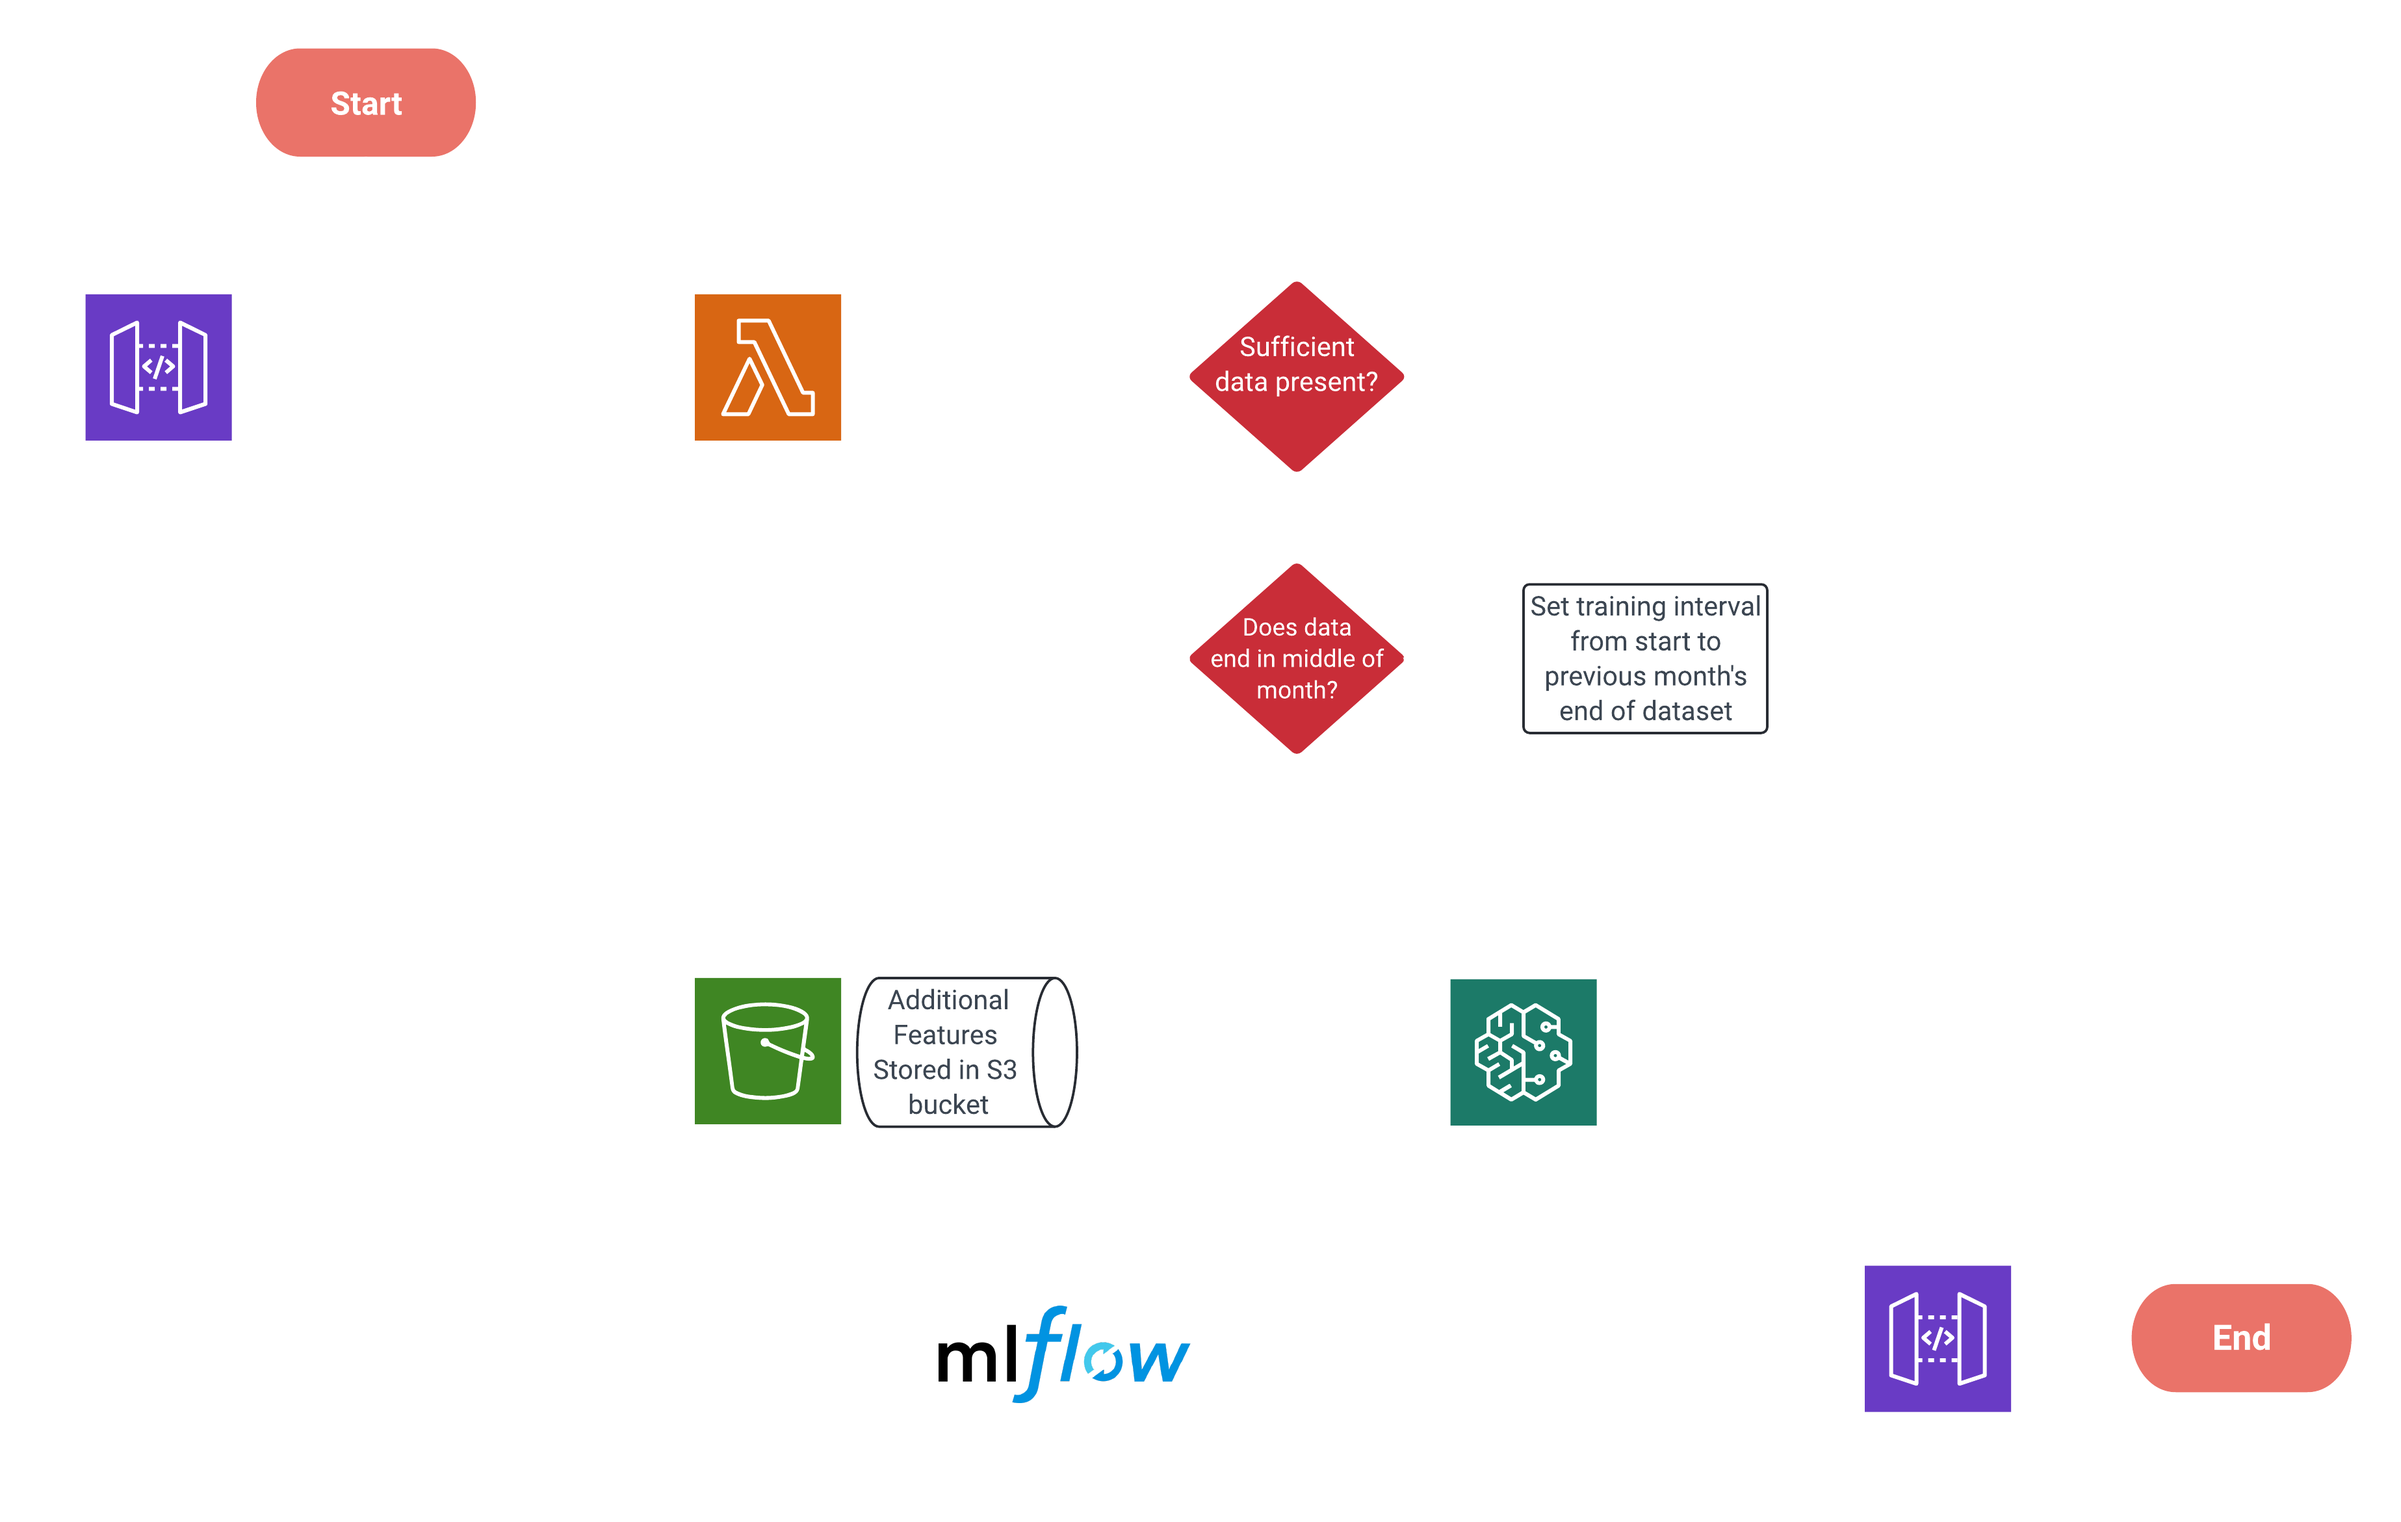
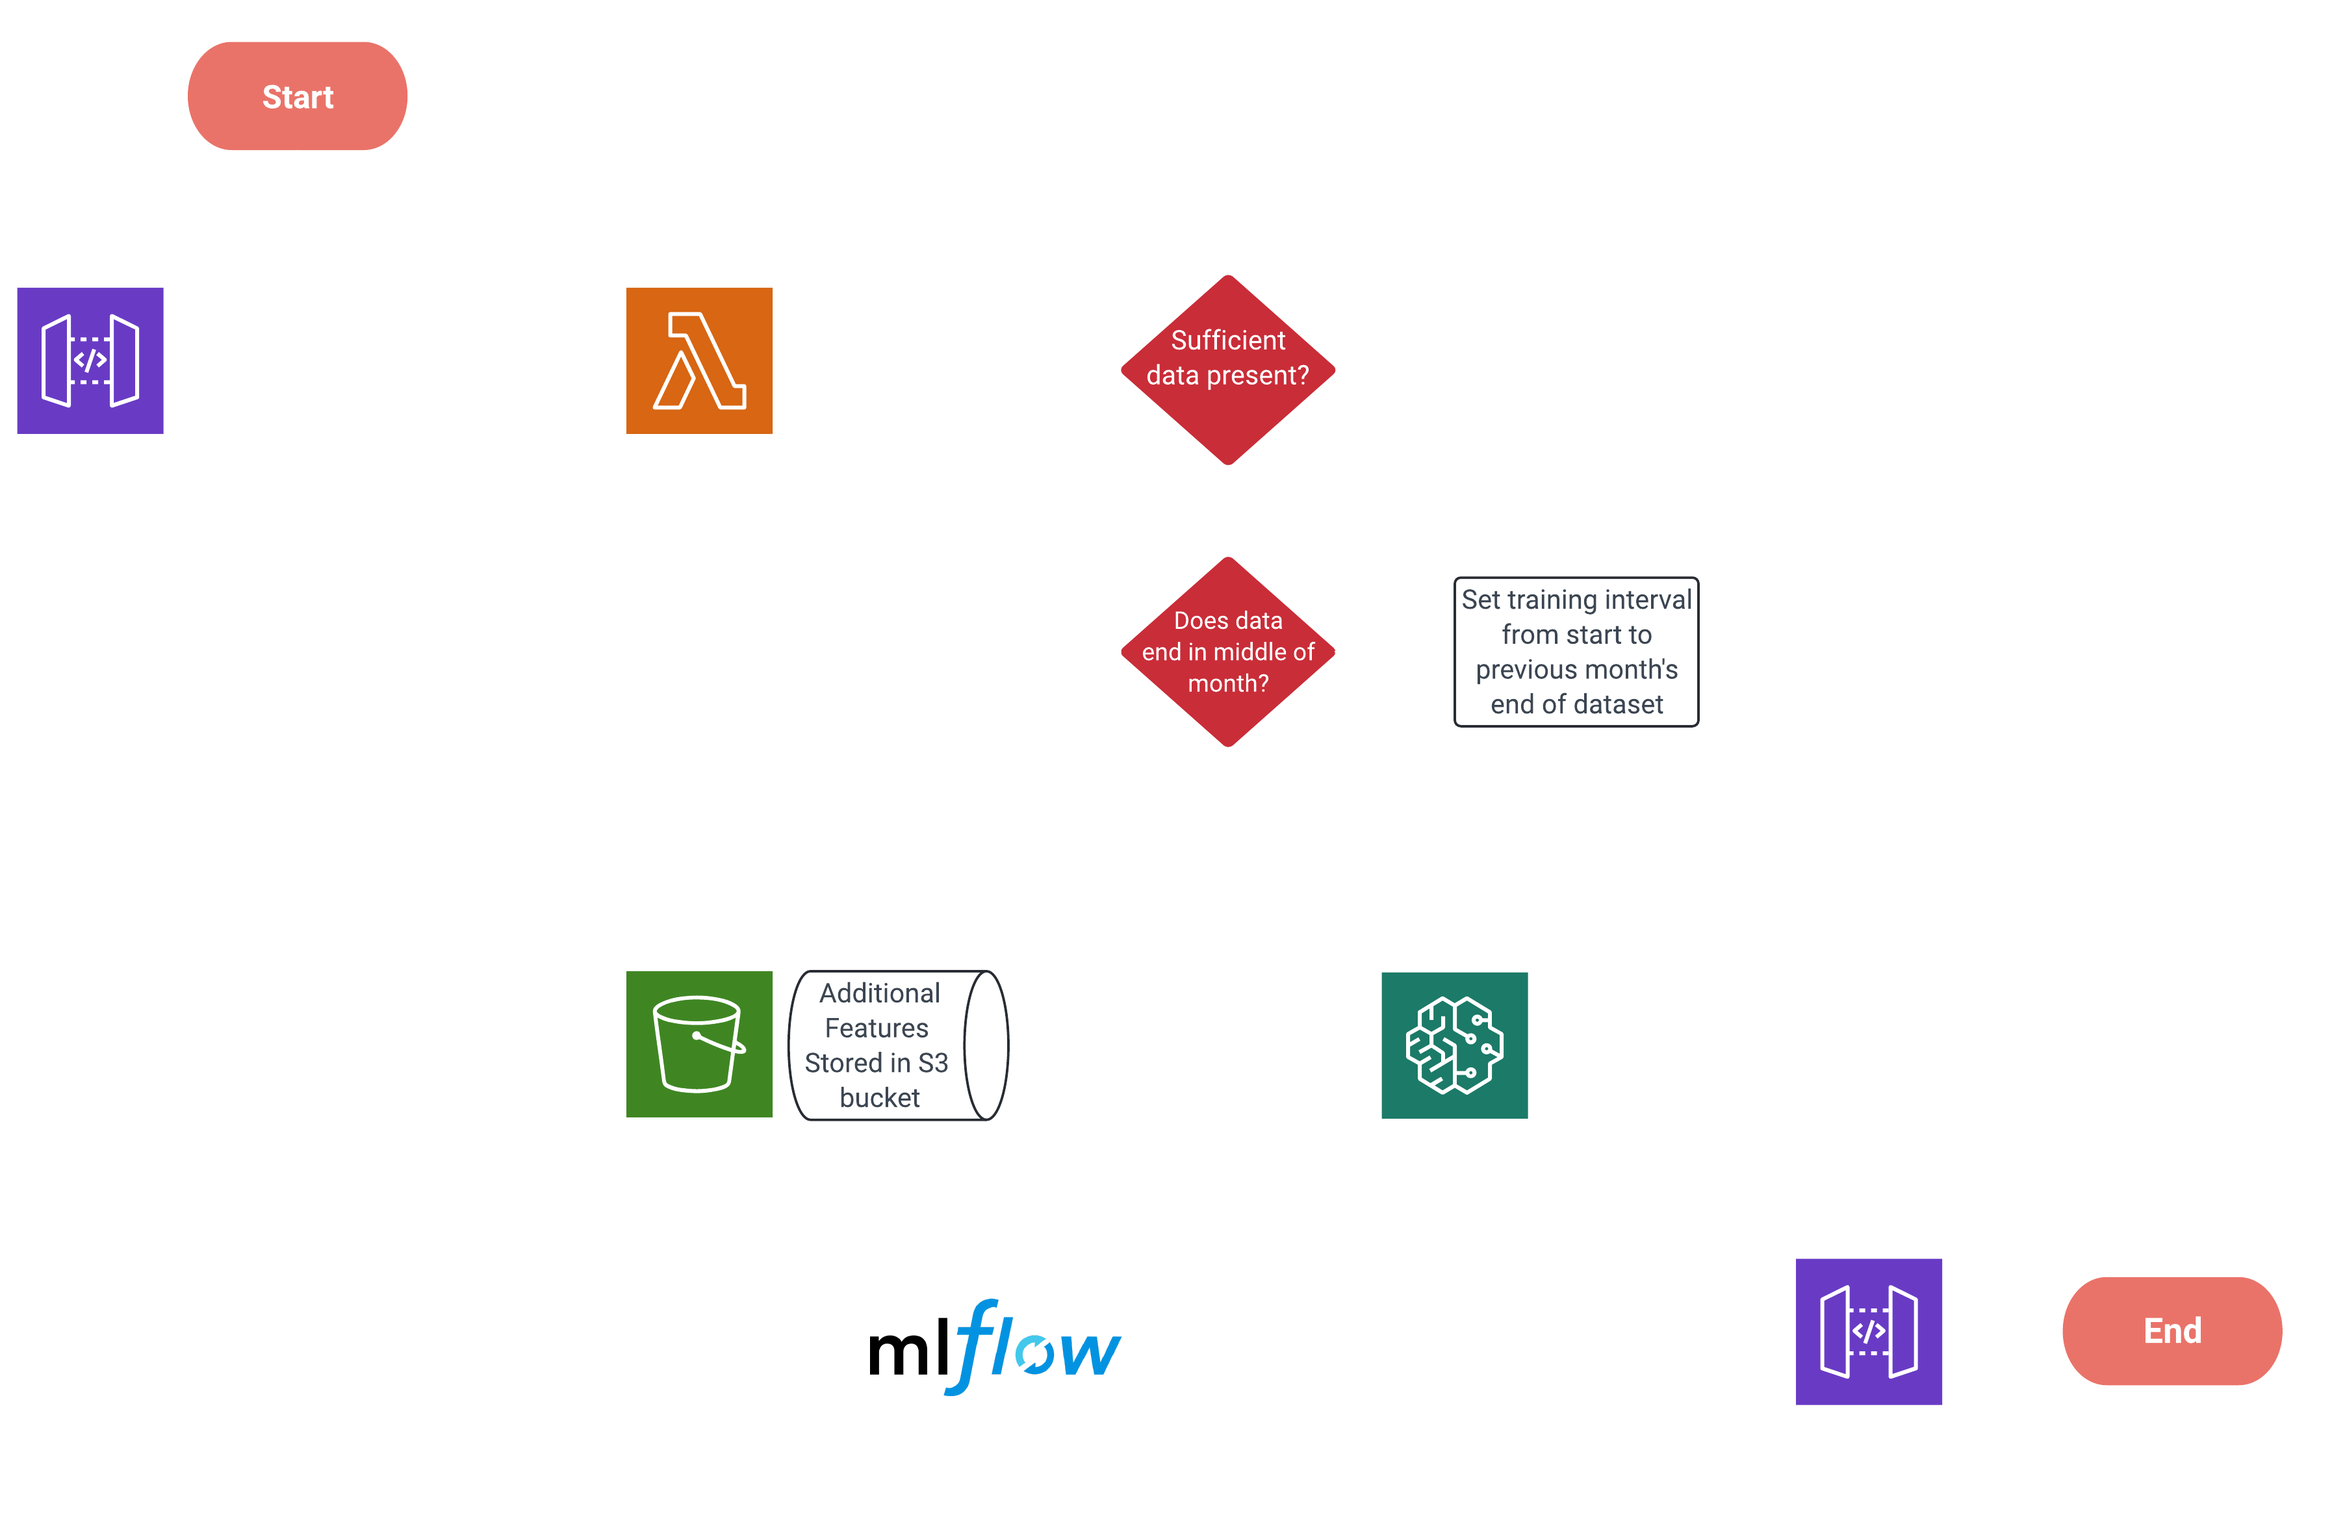
Updated README

diff --git a/README.md b/README.md
@@ -45,7 +45,7 @@ Development for this project was done using a dataset stored in Google Drive and
 *Chart produced in Lucidchart*
 
 ## Process Workflow
-![process-workflow-lm](https://github.com/dnezan/km-sku-prediction/blob/main/data/data_images/Process%20map.png?raw=true#gh-light-mode-only)
+![process-workflow-lm](https://github.com/dnezan/km-sku-prediction/blob/main/data/data_images/Process%20map%20-%20light%20-4.png?raw=true#gh-light-mode-only)
 ![process-workflow-dm](https://github.com/dnezan/km-sku-prediction/blob/main/data/data_images/Process%20map%20-%20dark%20-4.png?raw=true#gh-dark-mode-only)
 *Chart produced in Lucidchart*
 
